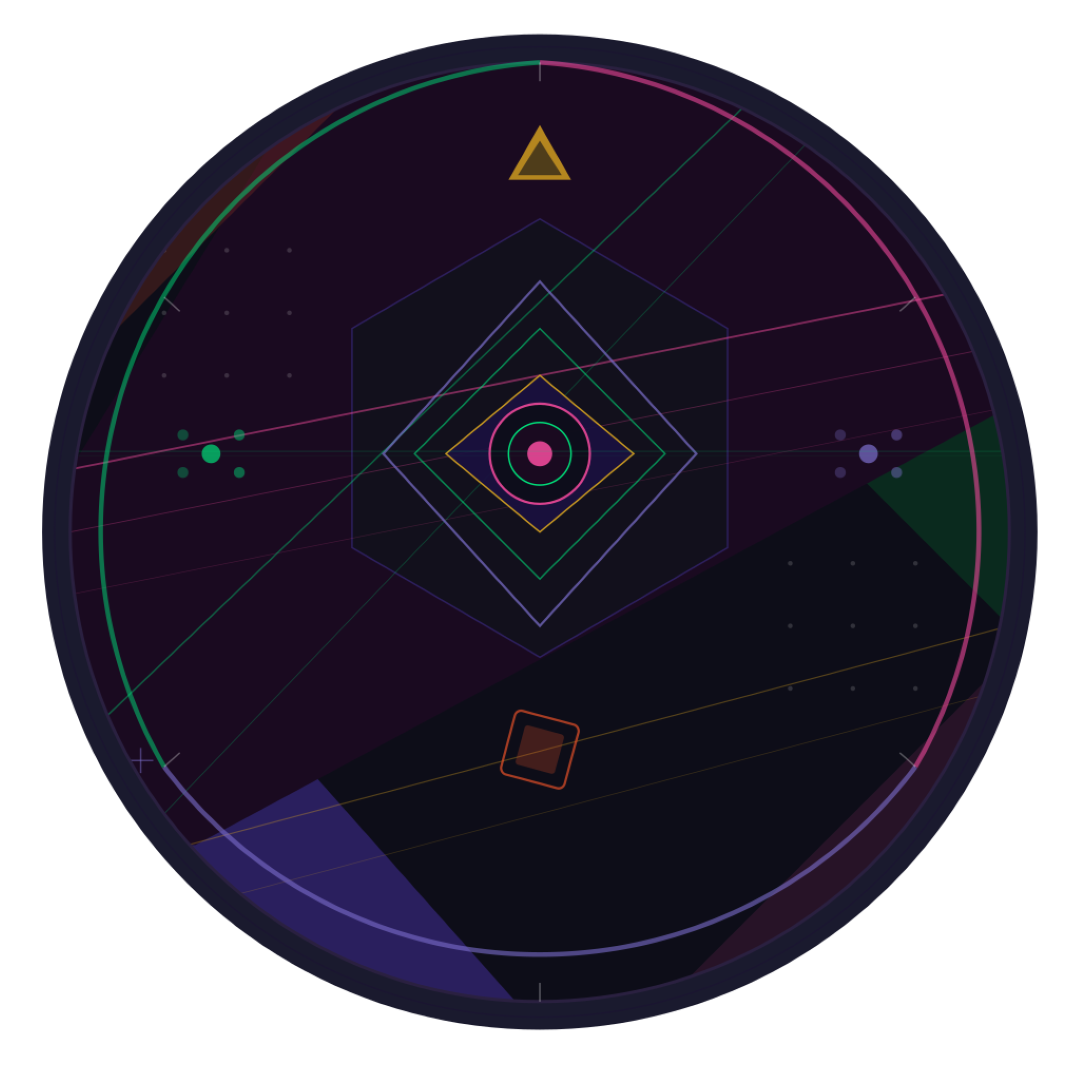
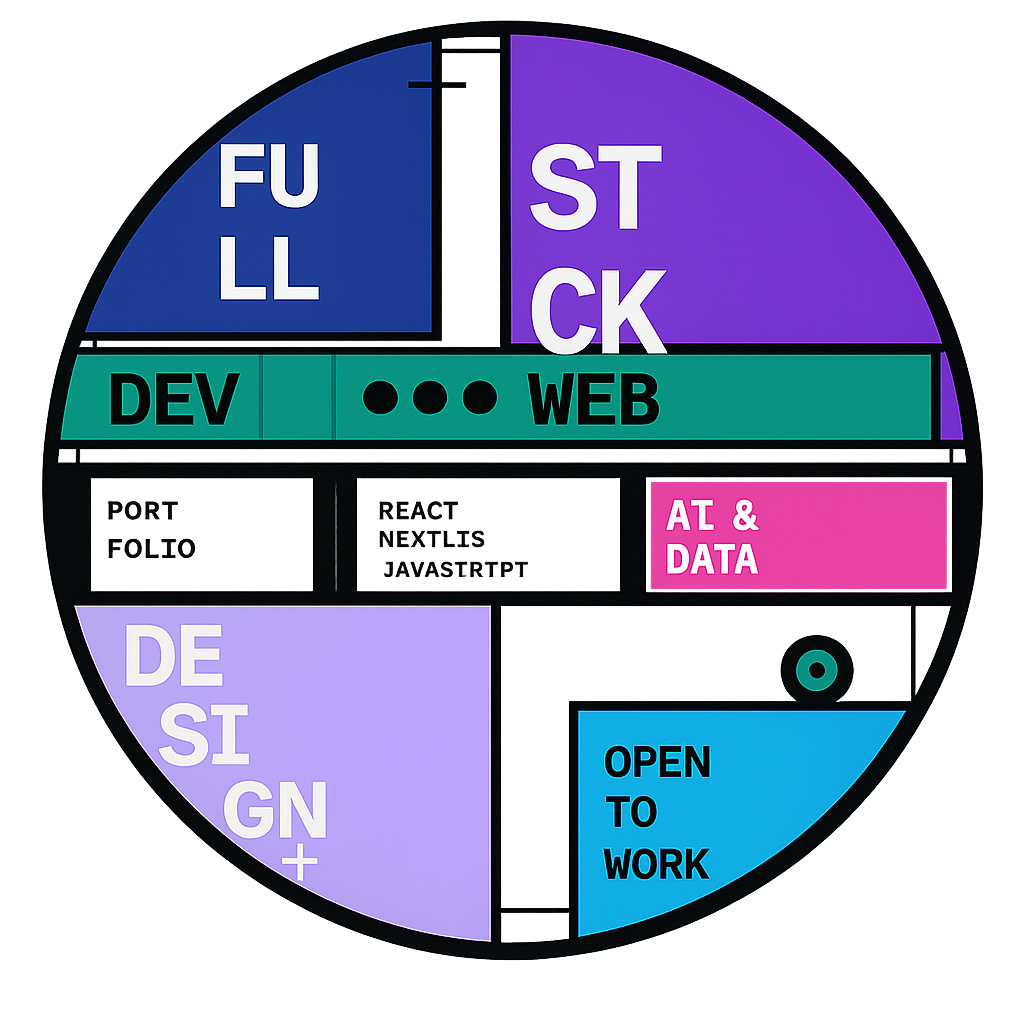
adding new projects

diff --git a/src/app/components/ProjectsSection.jsx b/src/app/components/ProjectsSection.jsx
@@ -5,19 +5,21 @@ import ProjectTag from "./ProjectTag";
 import { motion, useInView } from "framer-motion";
 
 const projectsData = [
-  { 
+  {
     id: 1,
     title: "Portfolio Website",
-    description: "Personal portfolio built with Next.js, Tailwind CSS & Framer Motion.",
+    description:
+      "Personal portfolio built with Next.js, Tailwind CSS & Framer Motion.",
     image: "/images/projects/1.png",
     tag: ["All", "Web"],
     gitUrl: "https://github.com/vivi2705-ui/portfolio.SAWADOGOvinoria.git",
     previewUrl: null,
-  }, 
+  },
   {
     id: 2,
     title: "Ahiyoyo : Internship",
-    description: "React Native mobile app for global logistics & parcel shipping.",
+    description:
+      "React Native mobile app for global logistics & parcel shipping.",
     image: "/images/projects/2.png",
     tag: ["All", "Mobile"],
     gitUrl: null,
@@ -26,7 +28,8 @@ const projectsData = [
   {
     id: 3,
     title: "FinLLM",
-    description: "AI web app detecting inconsistencies in financial reports using LLMs.",
+    description:
+      "AI web app detecting inconsistencies in financial reports using LLMs.",
     image: "/images/projects/3.png",
     tag: ["All", "Web"],
     gitUrl: null,
@@ -35,7 +38,8 @@ const projectsData = [
   {
     id: 4,
     title: "MovieLand",
-    description: "Movie discovery app powered by The Movie Database (TMDb) API.",
+    description:
+      "Movie discovery app powered by The Movie Database (TMDb) API.",
     image: "/images/projects/4.png",
     tag: ["All", "Web"],
     gitUrl: "https://github.com/vivi2705-ui/MovieLand.git",
@@ -53,10 +57,40 @@ const projectsData = [
   {
     id: 6,
     title: "School Management Dashboard",
-    description: "Full-stack academic dashboard for students, enrollments & schools administration.",
+    description:
+      "Full-stack academic dashboard for students, enrollments & schools administration.",
     image: "/images/projects/6.png",
     tag: ["All", "Web"],
     gitUrl: "https://github.com/vivi2705-ui/gestion_2ie_SAWADOGO_Vinoria.git",
+    previewUrl: null,
+  },
+  {
+    id: 7,
+    title: "Aniba",
+    description:
+      "Keep track of anime you follow and get inspired for your next watch",
+    image: "/images/projects/7.png",
+    tag: ["All", "Web"],
+    gitUrl: null,
+    previewUrl: null,
+  },
+  {
+    id: 8,
+    title: "AI task manager",
+    description: "Smart todo app where AI helps you organize tasks",
+    image: "/images/projects/7.png",
+    tag: ["All", "Web"],
+    gitUrl: null,
+    previewUrl: null,
+  },
+  {
+    id: 9,
+    title: "Code Snippet Manager",
+    description:
+      " A browser extension that helps you manage your code Snippet ",
+    image: "/images/projects/7.png",
+    tag: ["All", "Web"],
+    gitUrl: null,
     previewUrl: null,
   },
 ];
@@ -69,7 +103,7 @@ const ProjectsSection = () => {
   const handleTagChange = (newTag) => setTag(newTag);
 
   const filteredProjects = projectsData.filter((project) =>
-    project.tag.includes(tag)
+    project.tag.includes(tag),
   );
 
   const cardVariants = {
@@ -83,9 +117,21 @@ const ProjectsSection = () => {
         My Projects
       </h2>
       <div className="text-[#0f0a2e] flex flex-row justify-center items-center gap-2 py-6">
-        <ProjectTag onClick={handleTagChange} name="All"    isSelected={tag === "All"}    />
-        <ProjectTag onClick={handleTagChange} name="Web"    isSelected={tag === "Web"}    />
-        <ProjectTag onClick={handleTagChange} name="Mobile" isSelected={tag === "Mobile"} />
+        <ProjectTag
+          onClick={handleTagChange}
+          name="All"
+          isSelected={tag === "All"}
+        />
+        <ProjectTag
+          onClick={handleTagChange}
+          name="Web"
+          isSelected={tag === "Web"}
+        />
+        <ProjectTag
+          onClick={handleTagChange}
+          name="Mobile"
+          isSelected={tag === "Mobile"}
+        />
       </div>
       <ul ref={ref} className="grid md:grid-cols-3 gap-8 md:gap-12">
         {filteredProjects.map((project, index) => (

diff --git a/src/app/components/AboutSection.jsx b/src/app/components/AboutSection.jsx
@@ -35,7 +35,10 @@ const TAB_DATA = [
     content: (
       <ul className="list-disc pl-2 text-[#0f0a2e]">
         <li>Software Engineering: Modeling Software Systems</li>
+        <li>Univercity of ALberta software achitecture certificate</li>
         <li>HTML, CSS, and Javascript for Web Developers</li>
+        <li>Meta front end developer certificate</li>
+        <li>Meta back end developer certificate</li>
       </ul>
     ),
   },
@@ -52,24 +55,38 @@ const AboutSection = () => {
   return (
     <section className="text-[#0f0a2e]" id="about">
       <div className="md:grid md:grid-cols-2 gap-8 items-center py-8 px-4 xl:gap-16 sm:py-16 xl:px-16">
-        <Image src="/images/about-image.png" width={500} height={500} alt="About" />
+        <Image
+          src="/images/about-image.png"
+          width={500}
+          height={500}
+          alt="About"
+        />
         <div className="mt-4 md:mt-0 text-left flex flex-col h-full">
           <h2 className="text-4xl font-bold text-[#0f0a2e] mb-4">About Me</h2>
           <p className="text-base lg:text-lg text-[#1e1560]">
             I am a full stack web developer with a passion for creating
             interactive and responsive web applications. I have experience
-            working with JavaScript, React, Next.js, Node.js, Python, and
-            more. I am a quick learner always looking to expand my knowledge
-            and skill set.
+            working with JavaScript, React, Next.js, Node.js, Python, and more.
+            I am a quick learner always looking to expand my knowledge and skill
+            set.
           </p>
           <div className="flex flex-row justify-start mt-8">
-            <TabButton selectTab={() => handleTabChange("skills")} active={tab === "skills"}>
+            <TabButton
+              selectTab={() => handleTabChange("skills")}
+              active={tab === "skills"}
+            >
               Skills
             </TabButton>
-            <TabButton selectTab={() => handleTabChange("education")} active={tab === "education"}>
+            <TabButton
+              selectTab={() => handleTabChange("education")}
+              active={tab === "education"}
+            >
               Education
             </TabButton>
-            <TabButton selectTab={() => handleTabChange("certifications")} active={tab === "certifications"}>
+            <TabButton
+              selectTab={() => handleTabChange("certifications")}
+              active={tab === "certifications"}
+            >
               Certifications
             </TabButton>
           </div>
